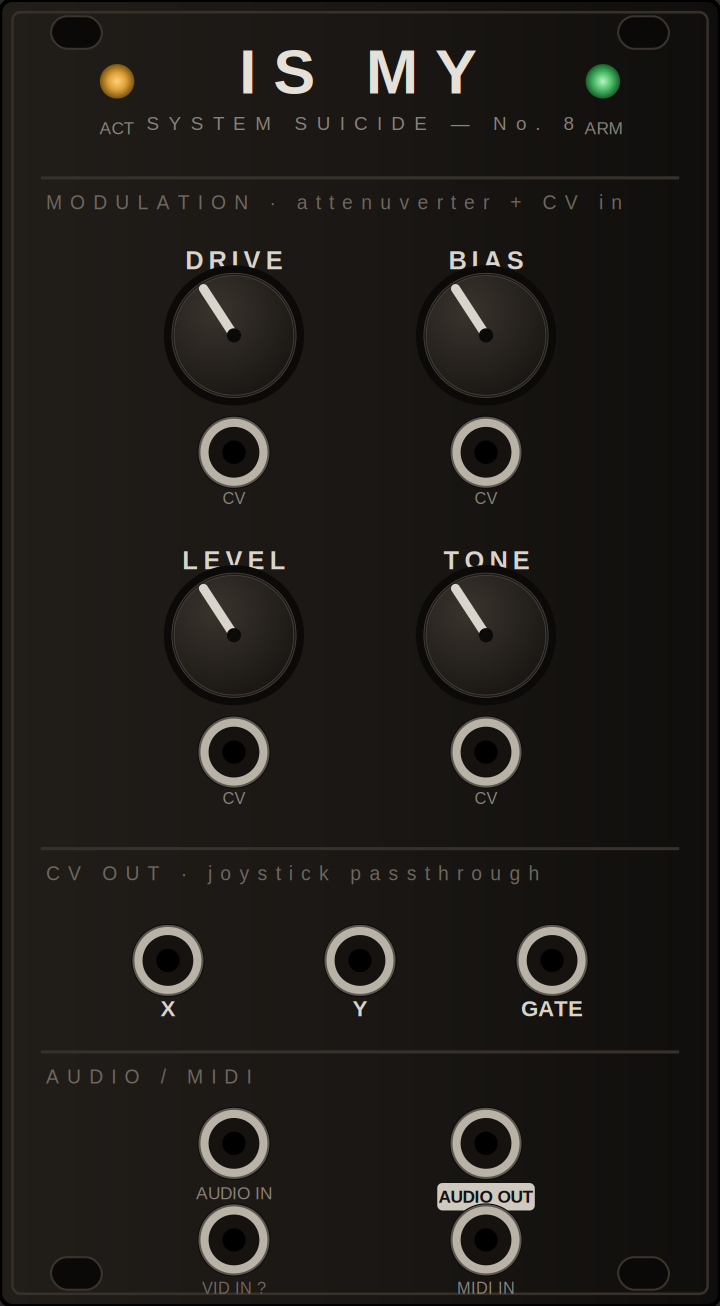
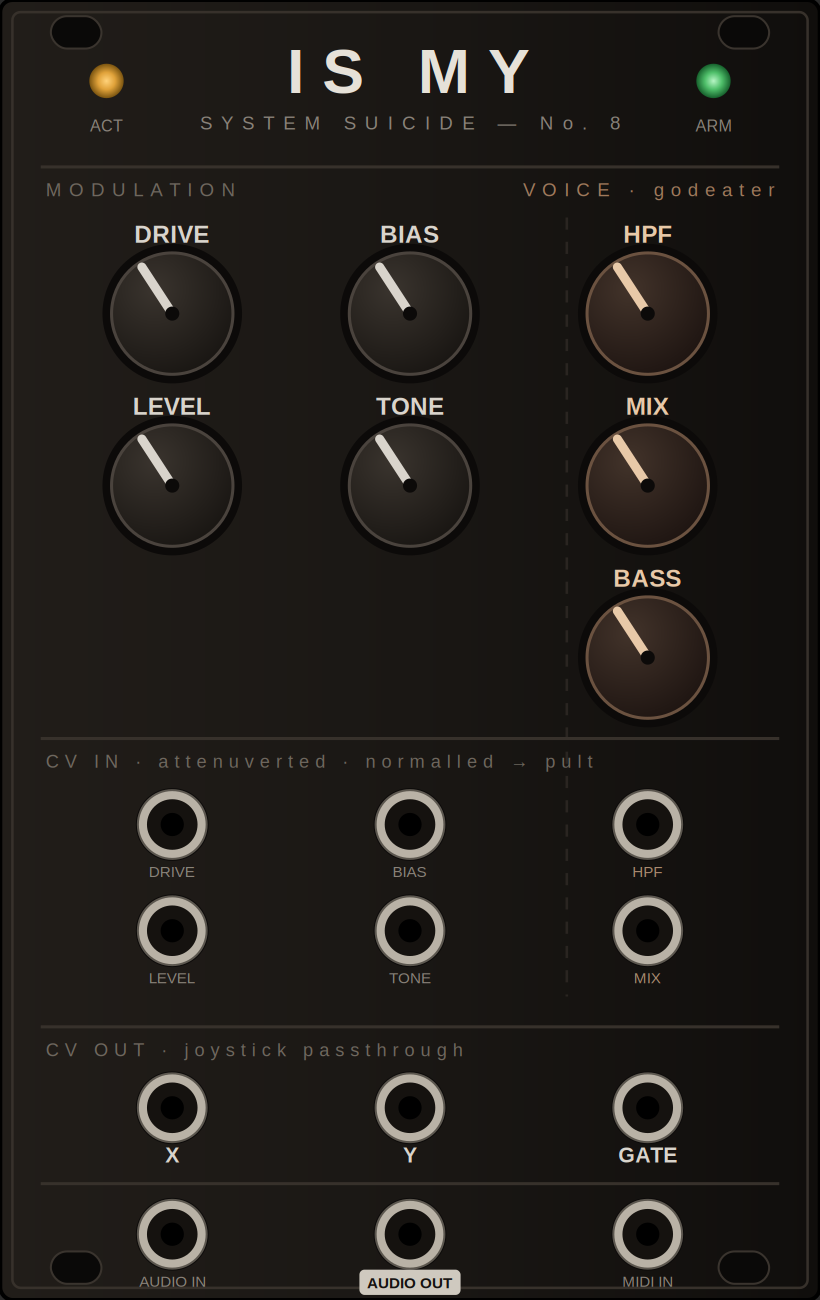
Is My: адаптация сатуратора Godeater (пуризм — только MOSFET)
Структуру и контроли Godeater переносим, нелинейность остаётся в ESC-MOSFET:
- SHAPER → два каскада MOSFET (soft sat + hard clip/compress), 2 сокета, 2 сервы
- пред-core: INPUT DRIVE + variable HPF (бас-дисторшн ↔ тонкий fuzz)
- MIX (dry/wet clean blend), BASS пост-ядро шельф
- Bias = непрерывный аналог CLIP-переключателя (симм/асимм)
- сводная таблица параметров (A3.7), панель → 16HP с блоком VOICE
- risk register R14/R15, BOM обновлён

https://claude.ai/code/session_01RSwz9zC2MGqxp43ShaMKCF

diff --git a/is_my/02_technical.md b/is_my/02_technical.md
@@ -54,6 +54,29 @@
 - Схема: неинвертирующий буфер на **TL072 / OPA1642** (FET-вход, низкий шум), Zin ≈ 100 кОм, усиление ×1. AC-связь на входе (большой плёночный конденсатор + резистор смещения к аналоговой земле). Клампинг-диоды (BAT54S) к ±12V (или к рельсам ОУ) на входе для защиты от перегруза.
 - Модулярный уровень: рассчитываем на ±5V (10 Vpp) номинал, headroom до ±10V. Перед ядром — нормировочный аттенюатор, чтобы ввести сигнал в рабочую область MOSFET (см. A3.1).
 
+## A2.5. Пред-core тракт — адаптация Godeater (INPUT DRIVE + variable HPF + clean tap)
+
+Адаптация сатуратора **Animal Factory Godeater**. Решение: **вся нелинейность остаётся в MOSFET** (принцип §10) — от Godeater берём *структуру и контроли*, а не диодно/LED-клиппинг. Перенесённые качества:
+
+**Полный сигнальный путь (SHAPER, с Godeater-адаптацией):**
+```
+AUDIO IN → buffer → INPUT DRIVE → pre-HPF(var) → MOSFET stage 1 (soft sat)
+                 │                                      → MOSFET stage 2 (hard clip/comp)
+                 │                                            → TONE (tilt) → BASS (low shelf) ─┐
+                 └──── clean tap ───────────────────────────────────────────────────────────────┤
+                                                                                    MIX (dry/wet) → out buffer → AUDIO OUT
+```
+
+Узлы пред-core:
+- **INPUT DRIVE** — управляемый предусилитель (OTA/VCA) перед ядром. Сильно взаимодействует со степенью искажения (Godeater INPUT LEVEL): грузит порог захода MOSFET в нелинейность. Это и есть «Drive» из концепта; усиливаем его как главный драйвер сатурации.
+- **pre-HPF (variable)** — *главная фишка Godeater*. ВЧ-фильтр **перед** MOSFET-каскадом, перестраиваемый ~20 Гц … ~1 кГц:
+  - полностью CCW (срез 20 Гц) → весь низ влетает в транзистор → жирная басовая дисторшн;
+  - выше (срез растёт) → низ срезан до клипа → тонкий «осиный» fuzz.
+  - Реализация с CV: **OTA-HPF (LM13700)** 1–2 порядка с управлением частотой среза по сумме «панельный HPF-knob + HPF-CV». Альтернатива — variable-R на JFET/digipot, но OTA даёт плавный CV.
+- **clean tap** — чистый отвод сигнала **после входного буфера** (до HPF/ядра), буферизуется и идёт на MIX (clean blend, A8). Сохраняет фундамент и транзиенты под тяжёлой сатурацией — критично для баса (Godeater CLEAN/Zeus dry-wet).
+
+Пред-core (INPUT DRIVE, pre-HPF) и MIX/BASS — **глобальны** (действуют во всех трёх режимах ядра), а двухкаскадная топология (ниже) — конфигурация именно SHAPER; в RING/GATE аналоговый мультиплексор переключает ядро на свои топологии (A3.2/A3.3).
+
 ## A3. MOSFET shaper core — ядро
 
 Сердце модуля. Используется **силовой N-канальный MOSFET из донорского ESC** (logic-level, low-Rds(on), типичный корпус DFN/SOT-23 для мелких ESC или DPAK для крупных). Конкретный тип каждого экземпляра документируется в provenance (§A3.6).
@@ -62,17 +85,27 @@
 
 Общая идея: транзистор остаётся силовым переключателем/нелинейным элементом во всех режимах — функциональная преемственность (принцип §10 концепта).
 
-### A3.1. SHAPER — VCA с управляемым насыщением
+### A3.1. SHAPER — двухкаскадный MOSFET-сатуратор (Godeater-структура, чистый MOSFET)
 
-Топология: **common-source транскондуктансный каскад** с управляемой рабочей точкой.
+Godeater злой за счёт **двух каскадов клиппинга подряд**. Воспроизводим структуру, но клиппит **сам ESC-MOSFET** (два каскада на транзисторах, диодов/LED нет — §10). Под SHAPER используются **два MOSFET** (оба из донорского ESC, A3.6): stage 1 — мягкое насыщение, stage 2 — жёсткий клип/компрессия.
 
-- Аудио поступает на затвор через сумматор: `Vgate = Vaudio·Drive_gain + Vbias`.
-- `Drive` (CV) задаёт амплитуду аудио, вгоняемую в нелинейность (через VCA-предусилитель — см. ниже — или через управляемый делитель на втором JFET/OTA).
-- `Bias` (CV) сдвигает постоянную составляющую затвора → смещает рабочую точку по квадратичной характеристике `Id ≈ k·(Vgs − Vth)²`. У границы отсечки — преимущественно чётные гармоники (асимметрия), в более линейной зоне — мягкое симметричное насыщение → баланс чётных/нечётных управляется Bias, как в концепте.
-- Нагрузка стока — резистор / источник тока; снимаемое напряжение `Vout = Vdd − Id·Rd` инвертировано и нелинейно. Дальше — выходной буфер и Tone.
-- На больших Drive каскад с локальной ОС/ёмкостью может входить в **period-doubling** (саб-октава) — желаемое поведение; глубина задаётся номиналом ёмкости в цепи стока и величиной ОС (подбирается на макете, §13-R2).
+**Stage 1 — мягкий транскондуктансный каскад:**
+- Common-source, аудио на затвор через сумматор `Vgate = Vaudio·Drive + Vbias`.
+- Работает у класса A, умеренный gain → мягкое квадратичное насыщение `Id ≈ k·(Vgs − Vth)²`.
+- `Bias` смещает рабочую точку → асимметрия (чётные ↔ нечётные гармоники). **Bias = непрерывный аналог Godeater CLIP-переключателя** (симм. ↔ асимм. клип), только плавно.
 
-Для предсказуемого «уровня» (Level как VCA gain из концепта) перед каскадом ставится отдельный **VCA-предусилитель на OTA** (LM13700 / **THAT2180**) с управлением от Level-CV. То есть Level и Drive — независимые: Level задаёт общий gain тракта, Drive — глубину захода в нелинейность MOSFET. Это разводит два смысла, иначе сливающихся.
+**Stage 2 — жёсткий клип/компрессия:**
+- Второй common-source с бóльшим gain, раскачивается **в отсечку и насыщение** → сток клиппит у Vdd/0 характеристикой самого транзистора (никаких диодов). Это «brutal» Godeater-компрессия чисто на материале.
+- Симметрия клипа здесь тоже зависит от рабочей точки stage 2 (общая Bias-цепь + локальное смещение).
+- На больших Drive связка двух каскадов с локальной ОС/ёмкостью входит в **period-doubling** (саб-октава) — желаемо; глубина — номиналами на макете (R2).
+
+**Сквозное:**
+- Между каскадами — межкаскадная связь (AC) и опц. мягкий LPF, чтобы укротить ВЧ-визг (можно вывести в Tone-направление).
+- Нагрузка стоков — резистор/источник тока, `Vout = Vdd − Id·Rd` (инвертирующе, нелинейно).
+- `Drive` (из пред-core, A2.5) задаёт, насколько жёстко влетаем в каскад 1 → глубина сатурации/компрессии (Godeater GAIN+INPUT LEVEL слиты в Drive).
+- **Каждый каскад — со своей сервопетлёй термокомпенсации** (A3.4): дрейф двух транзисторов держится независимо. Дуальный low-offset ОУ (OPA2188).
+
+`Level` (VCA gain из концепта) — отдельный **OTA/VCA-предусилитель** (LM13700 / THAT2180) по Level-CV, перед пред-core. Level и Drive независимы: Level — общий gain тракта, Drive — глубина захода в нелинейность.
 
 ### A3.2. RING — кольцевая модуляция через PWM
 
@@ -97,23 +130,39 @@
 
 Силовые MOSFET имеют большой разброс и температурный дрейф порога `Vth` (≈ −2…−6 мВ/°C) и крутизны. Без компенсации рабочая точка SHAPER уплывает → меняется тембр и DC на выходе.
 
-Решение — **сервопетля удержания тока покоя**:
-- Ток стока (или истока) измеряется по падению на малом резисторе истока `Rs`.
-- ОУ-интегратор (**OPA2188**, low-offset) сравнивает это падение с опорой `Iq_ref` и подстраивает **DC-составляющую Bias** так, чтобы ток покоя держался константой.
+Решение — **сервопетля удержания тока покоя, по одной на каждый MOSFET-каскад** (SHAPER = 2 каскада, A3.1):
+- Ток стока (или истока) каждого каскада измеряется по падению на малом резисторе истока `Rs`.
+- ОУ-интегратор (**OPA2188**, дуальный low-offset — обе сервы в одном корпусе) сравнивает это падение с опорой `Iq_ref` и подстраивает **DC-смещение затвора** каскада так, чтобы ток покоя держался константой.
 - Постоянная времени сервы — большая (≈ 0.5…1 с), чтобы петля компенсировала тепловой и долговременный дрейф, но **не реагировала на аудио и не съедала низ**. HPF в аудиотракте после ядра защищает от остаточного DC.
 - Сигнал Bias от пользователя суммируется **поверх** сервы (серва держит среднее, пользователь модулирует вокруг).
 
 Это даёт «работоспособность в спецификации при уникальности звучания» (§6.3 концепта): серва гарантирует, что любой донорский MOSFET попадёт в рабочую зону, но тонкий характер каждого транзистора сохраняется.
 
-### A3.5. Tone
+### A3.5. Tone + Bass (пост-ядро)
 
-Пост-ядро: наклон спектра. Простейшее — **state-variable tilt-EQ** или пассивный tilt (одновременно поднимает низ/срезает верх и наоборот вокруг центральной частоты ~700 Гц) на одном ОУ. Управление — Tone-CV через VCA/OTA или цифровой потенциометр **MCP41xxx** (управляется MCU). Рекомендую аналоговый tilt с OTA для плавности по CV.
+- **Tone** — наклон спектра: **state-variable tilt-EQ** (одновременно поднимает низ/срезает верх и наоборот вокруг ~700 Гц) на одном ОУ. Управление Tone-CV через OTA для плавности. Покрывает Godeater «tone direction» (наклон в обе стороны от пивота).
+- **Bass** (Godeater-адаптация) — отдельный **низкочастотный шельф** пост-ядро (~100–150 Гц), вернуть/убрать тело после сатурации. Простой shelving на ОУ, панельный knob (CV опционально). Дополняет Tone, не дублирует: Tone крутит баланс верх/низ, Bass — абсолютный уровень низа.
 
 ### A3.6. Привязка к донорскому MOSFET
 
 - Под транзистор — **панелька/сокет или короткие выводные площадки**, чтобы каждый экземпляр edition получал свой ESC-MOSFET, а сервопетля адаптировалась к его параметрам.
 - При входном контроле документируется: тип/маркировка (если читается), измеренные `Vth`, `gfs`, `Rds(on)` — в provenance certificate.
 - Допуски, при которых серва ещё держит: `Vth` в диапазоне (определяется на макете, ориентир 1…4 В для logic-level). MOSFET вне диапазона — отбраковка/другой слот.
+- **SHAPER теперь двухкаскадный → два сокета под ESC-MOSFET** (A3.1). По возможности оба транзистора — с одной донорской платы (общий провенанс экземпляра); серва компенсирует их разброс независимо.
+
+### A3.7. Параметры — сводка (где живут после Godeater-адаптации)
+
+| Параметр | Что делает | Орган | CV | Источник |
+|---|---|---|---|---|
+| LEVEL | общий VCA gain тракта | пульт | CV-in (норм. на пульт) | джойстик/ручка пульта |
+| DRIVE | глубина захода в нелинейность (Godeater GAIN+INPUT LEVEL) | пульт | CV-in (норм.) | джойстик Y |
+| BIAS | симметрия клипа, чёт/нечёт (Godeater CLIP, непрерывно) | пульт | CV-in (норм.) | джойстик X |
+| TONE | tilt верх/низ | пульт | CV-in (норм.) | ручка пульта |
+| **HPF** | пред-клип ВЧ: бас-дисторшн ↔ тонкий fuzz (гл. фишка Godeater) | **модуль (knob)** | **CV-in** | модуль/внешн. |
+| **MIX** | dry/wet clean blend (Godeater CLEAN/Zeus) | **модуль (knob)** | **CV-in** | модуль/внешн. |
+| **BASS** | пост-ядро НЧ-шельф | **модуль (knob)** | опц. | модуль |
+
+DRIVE/BIAS/LEVEL/TONE — «играющие», живут на пульте (нормализованы на CV-входы модуля, §A5). HPF/MIX/BASS — «формующие/voicing», живут на модуле (knob + CV для HPF и MIX). Это держит роль: пульт играет, модуль настраивает голос.
 
 ## A4. Video audifier
 
@@ -204,38 +253,41 @@ CV-out X/Y/GATE дублируют джойстик/ножник (§3.4): оди
 
 ARM (CC#64): тот же мьют-VCA используется как глобальный gate enable — ARM off → VCA в ноль (с тем же ramp, без щелчка).
 
-## A8. Выходной буфер (AUDIO OUT)
+## A8. MIX (clean blend) + выходной буфер (AUDIO OUT)
 
-- Мьют-VCA (THAT2180 / OTA) — управляется FSM (A7) и ARM.
+- **MIX (dry/wet, Godeater CLEAN/Zeus)** — кроссфейд между **clean tap** (A2.5, чистый сигнал после входного буфера) и обработанным выходом ядра+Tone+Bass. Реализация: два OTA/VCA с противофазным управлением от MIX-knob (+ MIX-CV) → сумматор. Сохраняет фундамент/транзиенты под тяжёлой сатурацией. Глобален для всех режимов.
+- **Мьют-VCA** (THAT2180 / OTA) после MIX — управляется FSM (A7) и ARM (de-click при смене MODE и gate enable).
 - Выходной буфер на **TL072 / OPA1642**, низкий выходной импеданс, последовательный резистор ~1 кОм (стандарт Eurorack), AC-связь, защита.
 - Разъём 3.5mm TS.
 
 ## A9. Раскладка лицевой панели модуля (Eurorack 3U)
 
-Ширина: **14 HP** (70.8 мм) — 12 HP оказалось тесно под 4 CV-in с аттенюверторами + 3 CV-out + аудио + MIDI с читаемым шагом джеков (R6). Визуальный макет — `panel_module.svg` / `panel_module.png` (реальный масштаб).
+Ширина: **16 HP** (81.3 мм) — выросла с 14HP под Godeater-контроли HPF/MIX/BASS + их CV (R15). Визуальный макет — `panel_module.svg` / `panel_module.png` (реальный масштаб).
 
-Сверху вниз, логические зоны:
+Две колонки-функции: слева **MODULATION** (играющие параметры с пульта — аттенюверторы + CV-in), справа **VOICE** (формующие Godeater-параметры — knob + CV).
 
 ```
-┌──── IS MY · 14HP ───────┐
-│ ●ACT   I S  M Y    ●ARM │  индикация (амбер активность, зелёный ARM)
-│       system suicide 8  │
-│ — MODULATION ————————————│
-│  (○)DRIVE    (○)BIAS    │  ← аттенюверторы (потенциометры)
-│   •CV         •CV       │  ← CV-in джеки (switched, нормаль на пульт)
-│  (○)LEVEL    (○)TONE    │
-│   •CV         •CV       │
-│ — CV OUT ———————————————│
-│  •X    •Y    •GATE      │  ← passthrough жеста пульта
-│ — AUDIO / MIDI —————————│
-│  •AUDIO IN   ▮AUDIO OUT▮│  ← вход / выход (выход — инверсная плашка)
-│  •VID IN?    •MIDI IN   │  ← видео опционально (R13), MIDI с пульта
-└─────────────────────────┘
+┌──────── IS MY · 16HP ──────────┐
+│ ●ACT   I S   M Y       ●ARM    │  индикация
+│        system suicide 8        │
+│ — MODULATION ——— VOICE ————————│
+│  (○)DRIVE  (○)BIAS   (○)HPF    │  аттенюверторы | Godeater HPF
+│   •CV       •CV       •CV      │
+│  (○)LEVEL  (○)TONE   (○)MIX    │  | clean blend
+│   •CV       •CV       •CV      │
+│             (○)BASS            │  пост-ядро НЧ-шельф (knob)
+│ — CV OUT ———————————————————————│
+│  •X    •Y    •GATE             │  ← passthrough жеста пульта
+│ — AUDIO / MIDI —————————————————│
+│  •AUDIO IN   ▮AUDIO OUT▮        │  ← вход / выход (выход — инверсная плашка)
+│  •VID IN?    •MIDI IN          │  ← видео опционально (R13), MIDI с пульта
+└────────────────────────────────┘
 ```
 
 Замечания:
-- MODE/LEVEL/TONE/DRIVE/BIAS как **основные** органы живут на пульте; на модуле — только CV-интерфейс + аттенюверторы. Это сознательно: «играющие» руки на пульте, модуль — патч-поле.
-- **Крутилки VIDEO на панели нет** (тракт звуковой, R13): видео-микс — внутренний трим, VIDEO IN опционален и помечен «?».
+- Левый блок **MODULATION** — играющие параметры с пульта (DRIVE/BIAS/LEVEL/TONE), на модуле — аттенюверторы + CV-in. Правый блок **VOICE** — Godeater-формовка (HPF/MIX/BASS), задаётся на модуле.
+- **HPF** — пред-клип ВЧ (бас-дисторшн ↔ fuzz), **MIX** — clean blend dry/wet, **BASS** — пост-ядро шельф (§A2.5/A3.5/A8). У HPF и MIX свои CV-in; BASS — knob (CV опц.).
+- **Крутилки VIDEO нет** (тракт звуковой, R13): видео-микс — внутренний трим, VIDEO IN опционален «?».
 - Аттенюверторы DRIVE/BIAS/LEVEL/TONE несут роль befaco-Range/Offset, перенесённую с пульта (§A5, R12).
 - Глубина: стандартная Eurorack, модуль неглубокий (джойстик-секции на борту нет — она на пульте).
 
@@ -500,6 +552,8 @@ MIDI timeout / link loss:
 | R11 | Самоцентрирование осей | **РЕШЕНО: гибрид — X(BIAS) центр, Y(DRIVE) свободен. Throttle-гимбал донора, без доработки** (B2.1). |
 | R12 | Range/Offset модуляции | **РЕШЕНО: не на пульте — на принимающем модуле (аттенюверторы §A5).** Пульт отдаёт сырой биполярный жест. |
 | R13 | Видео-путь (video audifier) — нужен ли | **ОТКРЫТ, склоняемся убрать.** Тракт делаем звуковым. Крутилки VIDEO на панели нет, микс = внутр. трим, VIDEO IN опционален. Решить до разводки. |
+| R14 | Godeater-адаптация: двухкаскадный MOSFET-клип даёт ли «brutal» без диодов | **Валидация на макете.** Пуризм (только MOSFET, §10) принят; нужно подтвердить плотность/компрессию stage1+stage2. Если не дотягивает — пересмотр (гибрид обсуждался, отклонён). |
+| R15 | HPF/MIX/BASS — нагрузка на панель (рост до ~16HP) | Уточнить ширину при разводке панели (см. §A9, макет). |
 
 # §14. BOM (укрупнённо, ключевые позиции)
 
@@ -508,17 +562,17 @@ MIDI timeout / link loss:
 - ЦАП: DAC8568 / AD5668 (16-bit octal) ×1
 - Vref: REF3040 (+4.096V) ×1
 - ОУ аудио: OPA1642 / TL072 ×~5-6
-- Прецизионный ОУ серва: OPA2188 ×1
-- OTA/VCA: THAT2180 или LM13700 ×1-2
-- Компараторы: LM311 / TLV3501 ×2
-- Аналоговые ключи: DG419 / MAX4053 ×2-3
+- Прецизионный ОУ серва: OPA2188 (дуальный, 2 сервы на 2 каскада) ×1
+- OTA/VCA: LM13700 ×2-3 — Level VCA, INPUT DRIVE, variable HPF, MIX dry/wet, Tone; + THAT2180 на мьют-VCA
+- Компараторы: LM311 / TLV3501 ×2 (RING/GATE)
+- Аналоговые ключи: DG419 / MAX4053 ×2-3 (выбор режима)
 - Опто MIDI: 6N138 / H11L1 ×1
 - LDO: TPS7A4901 (+5V), MCP1700 (+3.3V) ×1+1
-- **Донорский ESC N-MOSFET** ×1 (на сокете) — *provenance item*
-- Разъёмы: Thonkiconn ×~12 (4 CV-in, 3 CV-out, audio in/out, video in, MIDI), питание Eurorack 16-pin
-- Потенциометры аттенюверторов ×4 + видео-микс
+- **Донорский ESC N-MOSFET ×2** (на сокетах) — два каскада SHAPER (A3.1); *provenance items*
+- Разъёмы: Thonkiconn ×~14 (4 CV-in mod, HPF/MIX CV-in ×2, 3 CV-out, audio in/out, VID in?, MIDI), питание Eurorack 16-pin
+- Потенциометры: аттенюверторы ×4 (DRIVE/BIAS/LEVEL/TONE) + HPF + MIX + BASS = ×7
 - LED ×2, ферриты, TVS, пассив
-- Панель + PCB (12 HP)
+- Панель + PCB (~16 HP, R15)
 
 ## Пульт
 - **Донорская RC/дрон-аппаратура** ×1 — корпус, гимбалы, органы (B0); *provenance/семиотика*
